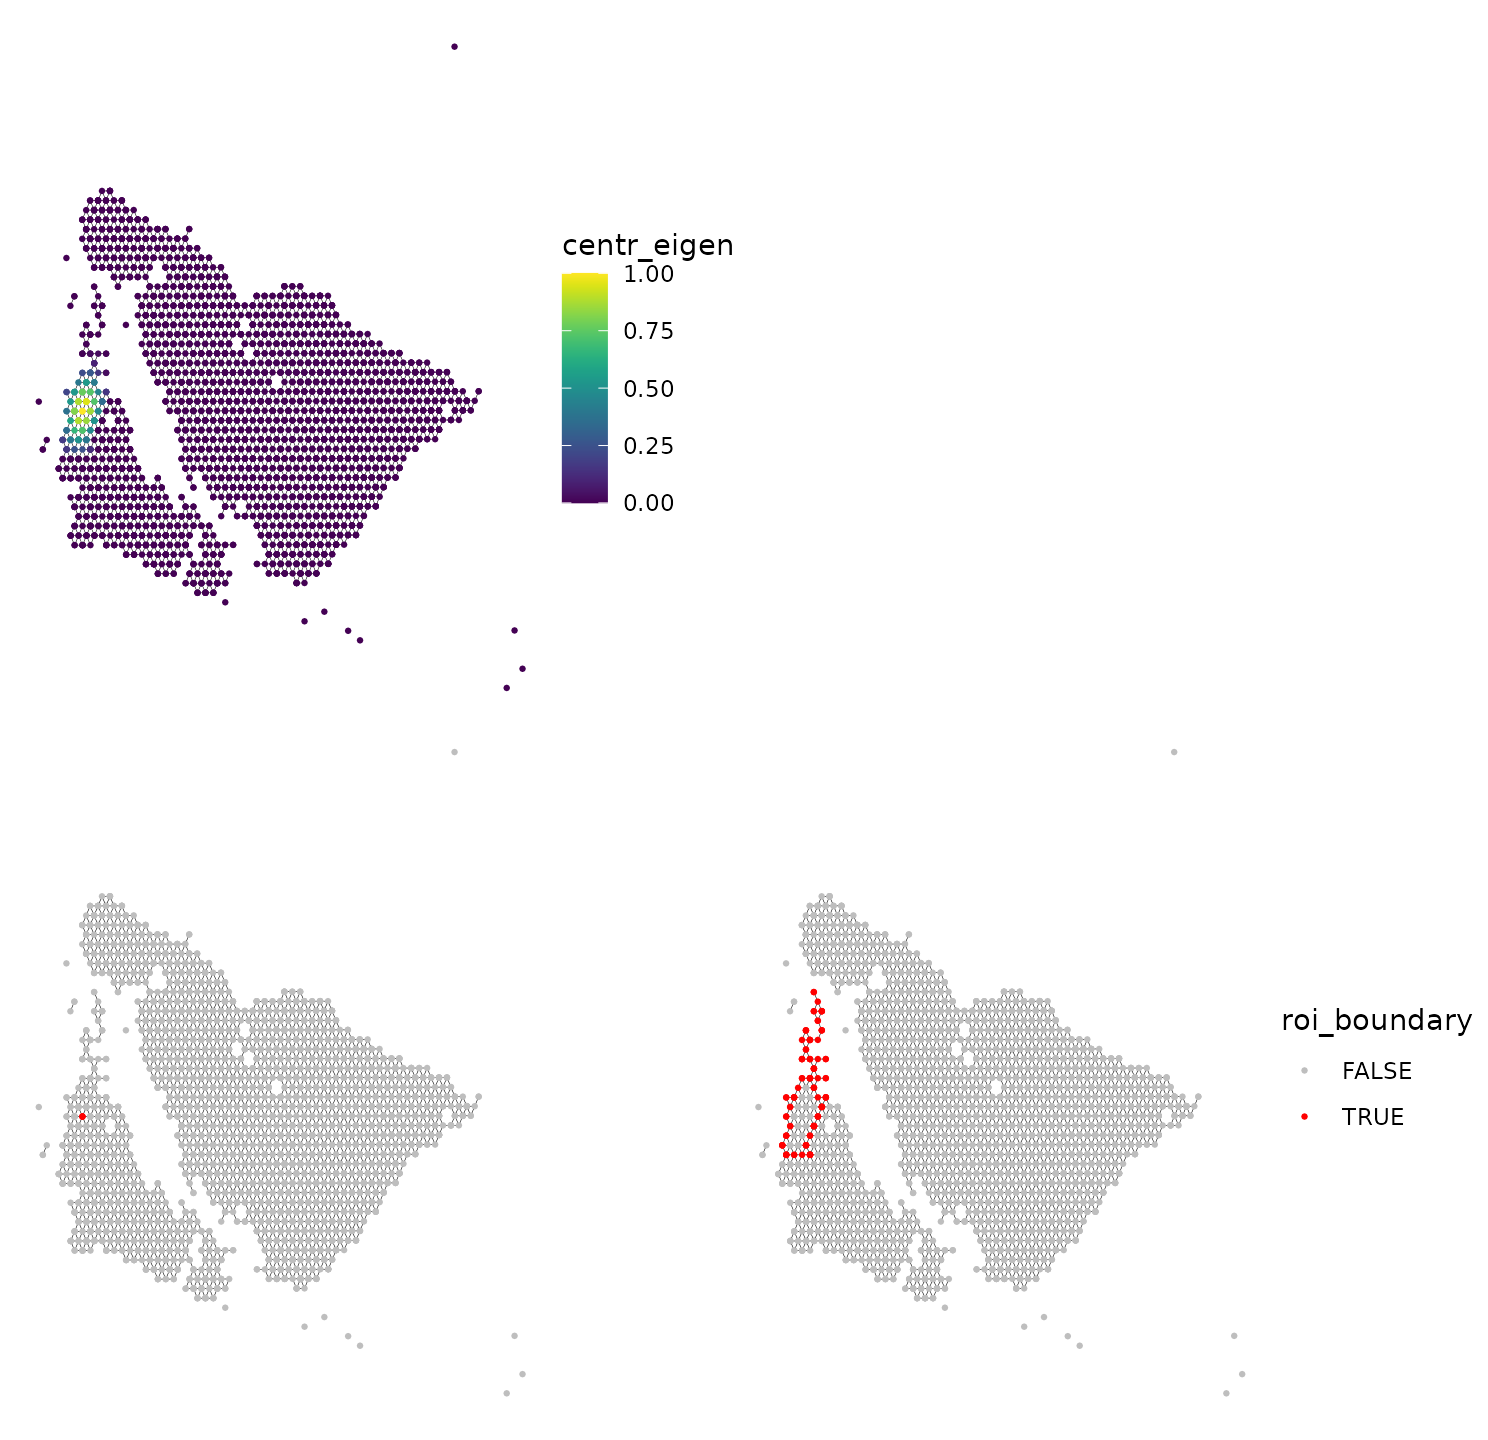
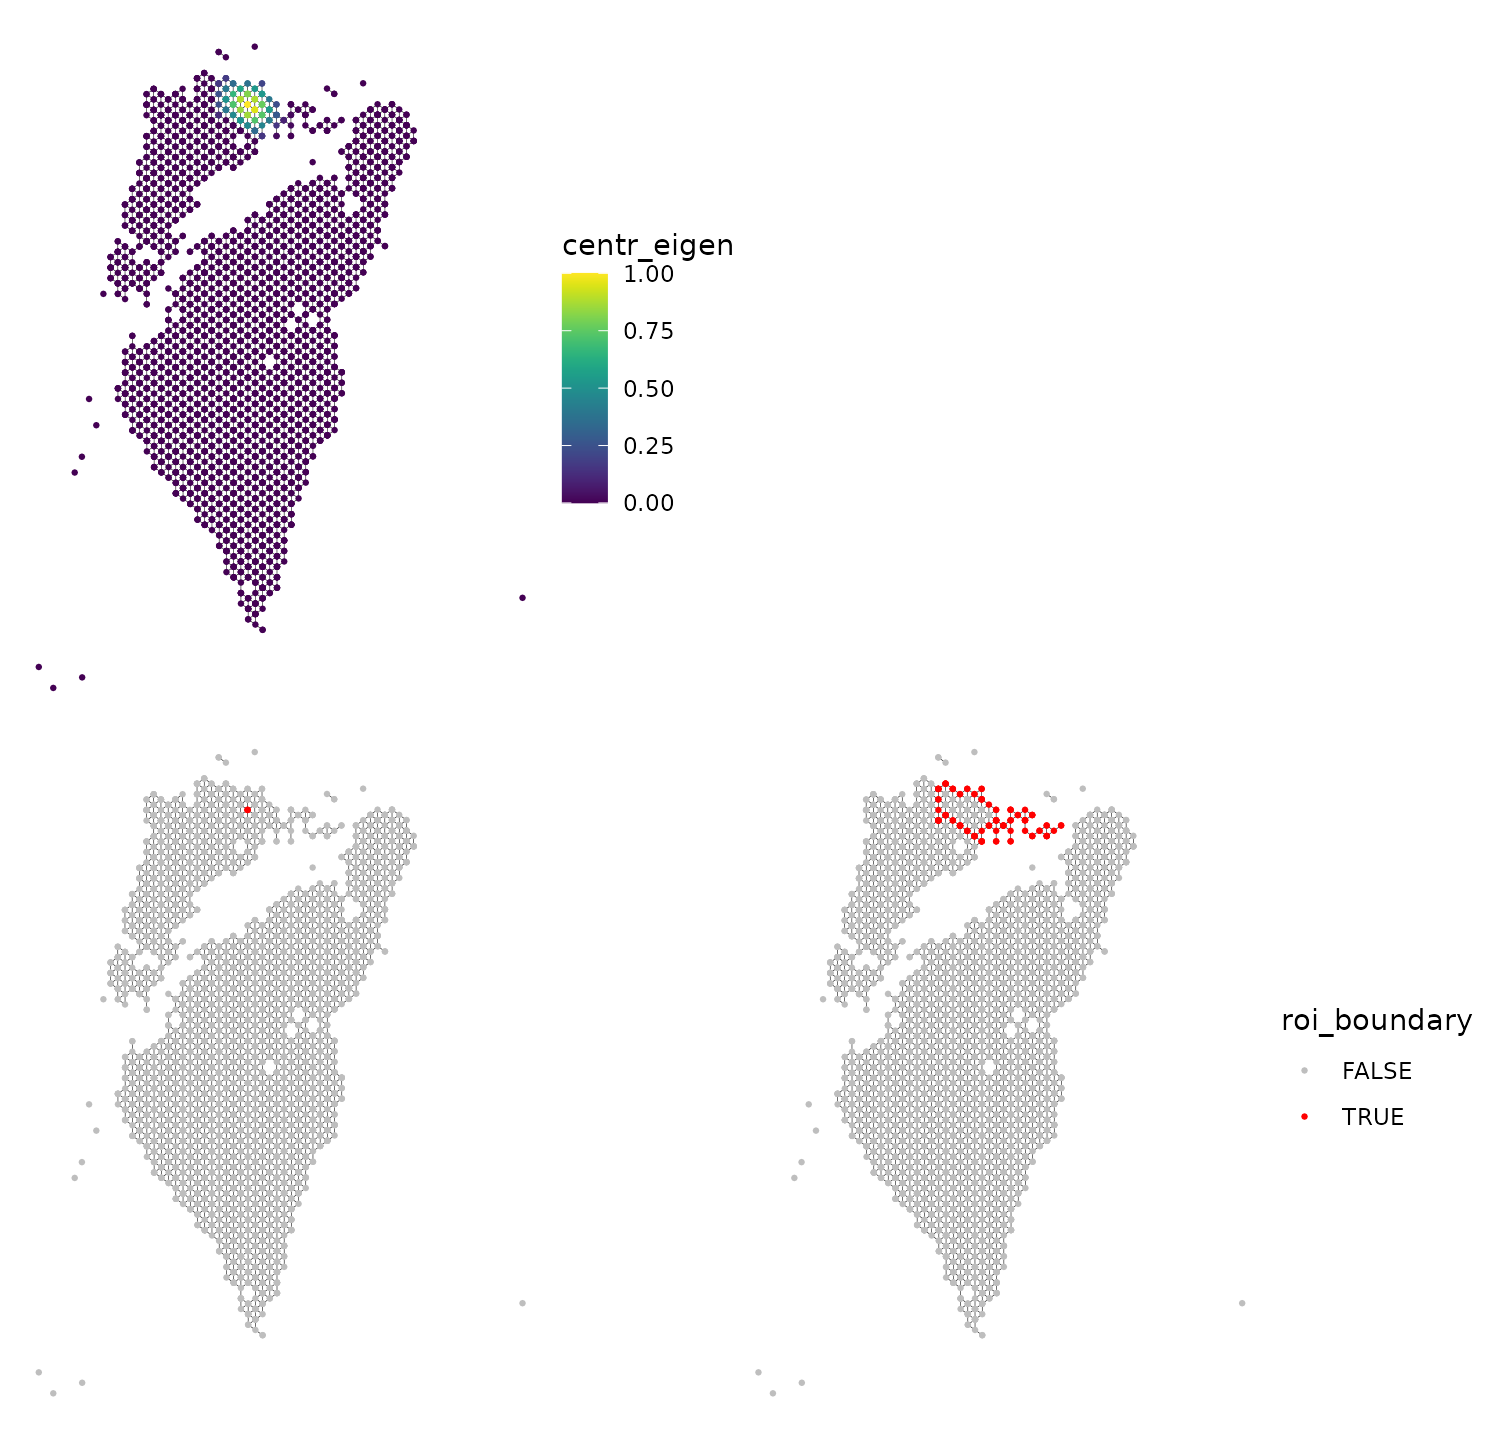
Deploying to gh-pages from @ Sanin-Lab/SpotGraphs@1e385902795e18f5e60756b3d0a333897c8155e1 🚀

Changed region(s): [[0.5255, 0.5312, 0.8038, 0.9375], [0.0309, 0.5312, 0.3401, 0.9375], [0.0309, 0.0312, 0.3091, 0.4375]]

diff --git a/articles/SpotGraphs.html b/articles/SpotGraphs.html
@@ -125,29 +125,29 @@ through the network between each spot</li>
 the spots on our slide.</p>
 <div class="sourceCode" id="cb3"><pre class="downlit sourceCode r">
 <code class="sourceCode R"><span><span class="va">coord</span> <span class="op">=</span> <span class="fu"><a href="https://satijalab.github.io/seurat-object/reference/GetTissueCoordinates.html" class="external-link">GetTissueCoordinates</a></span><span class="op">(</span><span class="va">scc_s1</span><span class="op">)</span></span>
-<span><span class="va">coord</span> <span class="op">=</span> <span class="va">coord</span><span class="op">[</span>,<span class="fu"><a href="https://rdrr.io/r/base/c.html" class="external-link">c</a></span><span class="op">(</span><span class="st">'x'</span>, <span class="st">'y'</span><span class="op">)</span><span class="op">]</span></span>
+<span><span class="va">coord</span> <span class="op">=</span> <span class="fu"><a href="https://rdrr.io/r/base/data.frame.html" class="external-link">data.frame</a></span><span class="op">(</span>x <span class="op">=</span> <span class="va">coord</span><span class="op">$</span><span class="va">y</span>, y <span class="op">=</span> <span class="op">-</span><span class="va">coord</span><span class="op">$</span><span class="va">x</span><span class="op">)</span></span>
 <span><span class="fu"><a href="https://rdrr.io/r/utils/head.html" class="external-link">head</a></span><span class="op">(</span><span class="va">coord</span><span class="op">)</span></span>
-<span><span class="co">#&gt;                        x     y</span></span>
-<span><span class="co">#&gt; AAACACCAATAACTGC-1  4809 16571</span></span>
-<span><span class="co">#&gt; AAACAGGGTCTATATT-1  3944 13546</span></span>
-<span><span class="co">#&gt; AAACCGTTCGTCCAGG-1  8142 14812</span></span>
-<span><span class="co">#&gt; AAACGAGACGGTTGAT-1 13505 10536</span></span>
-<span><span class="co">#&gt; AAACTGCTGGCTCCAA-1 11764 13053</span></span>
-<span><span class="co">#&gt; AAAGACTGGGCGCTTT-1  4240  9011</span></span>
+<span><span class="co">#&gt;       x      y</span></span>
+<span><span class="co">#&gt; 1 16571  -4809</span></span>
+<span><span class="co">#&gt; 2 13546  -3944</span></span>
+<span><span class="co">#&gt; 3 14812  -8142</span></span>
+<span><span class="co">#&gt; 4 10536 -13505</span></span>
+<span><span class="co">#&gt; 5 13053 -11764</span></span>
+<span><span class="co">#&gt; 6  9011  -4240</span></span>
 <span></span>
 <span><span class="va">ig</span> <span class="op">=</span> <span class="fu"><a href="../reference/SpotGraph.html">SpotGraph</a></span><span class="op">(</span>coord <span class="op">=</span> <span class="va">coord</span><span class="op">)</span></span>
 <span><span class="va">ig</span></span>
-<span><span class="co">#&gt; IGRAPH eedd453 UN-- 1185 3189 -- </span></span>
+<span><span class="co">#&gt; IGRAPH a5075b2 UN-- 1185 3189 -- </span></span>
 <span><span class="co">#&gt; + attr: name (v/c), coord_x (v/n), coord_y (v/n), is_boundary (v/l)</span></span>
-<span><span class="co">#&gt; + edges from eedd453 (vertex names):</span></span>
-<span><span class="co">#&gt;  [1] AAACACCAATAACTGC-1--AGGCGGTTTGTCCCGC-1</span></span>
-<span><span class="co">#&gt;  [2] AAACACCAATAACTGC-1--CTCGTCGAGGGCTCAT-1</span></span>
-<span><span class="co">#&gt;  [3] AAACACCAATAACTGC-1--GAAACATAGGAAACAG-1</span></span>
-<span><span class="co">#&gt;  [4] AAACACCAATAACTGC-1--GGAACCTTGACTCTGC-1</span></span>
-<span><span class="co">#&gt;  [5] AAACACCAATAACTGC-1--TCCCTGGCGTATTAAC-1</span></span>
-<span><span class="co">#&gt;  [6] AAACACCAATAACTGC-1--TGGACGCAATCCAGCC-1</span></span>
-<span><span class="co">#&gt;  [7] AAACAGGGTCTATATT-1--ACAGTAATACAACTTG-1</span></span>
-<span><span class="co">#&gt;  [8] AAACAGGGTCTATATT-1--TTCCCGGCGCCAATAG-1</span></span>
+<span><span class="co">#&gt; + edges from a5075b2 (vertex names):</span></span>
+<span><span class="co">#&gt;  [1] 1 --175  1 --522  1 --562  1 --718  1 --983  1 --1073 2 --86   2 --1130</span></span>
+<span><span class="co">#&gt;  [9] 3 --31   3 --326  3 --358  3 --680  3 --696  3 --1168 4 --37   4 --38  </span></span>
+<span><span class="co">#&gt; [17] 4 --128  4 --216  4 --691  4 --1109 5 --473  5 --734  5 --799  5 --807 </span></span>
+<span><span class="co">#&gt; [25] 5 --896  5 --1038 6 --61   6 --366  6 --485  6 --653  6 --815  6 --870 </span></span>
+<span><span class="co">#&gt; [33] 7 --110  7 --251  7 --792  7 --936  7 --950  7 --1183 8 --100  8 --153 </span></span>
+<span><span class="co">#&gt; [41] 8 --296  8 --436  8 --1081 8 --1106 9 --185  9 --651  9 --758  9 --826 </span></span>
+<span><span class="co">#&gt; [49] 9 --902  9 --1085 10--121  10--310  10--430  10--460  10--667  10--727 </span></span>
+<span><span class="co">#&gt; [57] 11--127  11--267  11--523  11--853  11--1038 11--1121 12--343  12--553 </span></span>
 <span><span class="co">#&gt; + ... omitted several edges</span></span></code></pre></div>
 <p>We can plot this igraph object with the ggnetwork package, which
 interfaces directly with ggplot2, or use the SpatialPlotGraph function
@@ -165,14 +165,13 @@ in our plots.</p>
 <span></span>
 <span><span class="va">plt.spg</span> <span class="op">=</span> <span class="fu"><a href="../reference/SpatialPlotGraph.html">SpatialPlotGraph</a></span><span class="op">(</span>igraph_object <span class="op">=</span> <span class="va">ig</span>, </span>
 <span>                           group.by <span class="op">=</span> <span class="st">'is_boundary'</span>, </span>
-<span>                           flip.axes <span class="op">=</span> <span class="cn">T</span>, </span>
 <span>                           pt.size <span class="op">=</span> <span class="fl">0.5</span><span class="op">)</span></span>
 <span></span>
 <span><span class="fu">patchwork</span><span class="fu">::</span><span class="fu"><a href="https://patchwork.data-imaginist.com/reference/wrap_plots.html" class="external-link">wrap_plots</a></span><span class="op">(</span><span class="va">plt.ggnet</span>, <span class="va">plt.spg</span><span class="op">)</span></span></code></pre></div>
 <p><img src="SpotGraphs_files/figure-html/unnamed-chunk-4-1.png" class="r-plt" alt="" width="864"></p>
 </div>
 <div class="section level2">
-<h2 id="spot-filtering">Spot filtering<a class="anchor" aria-label="anchor" href="#spot-filtering"></a>
+<h2 id="spot-filtering-based-on-connectivity">Spot filtering based on connectivity<a class="anchor" aria-label="anchor" href="#spot-filtering-based-on-connectivity"></a>
 </h2>
 <p>One of the main features of the SpotGraph package is to identify
 spots on a slide that lie on top of tissue debris disconnected from the

diff --git a/articles/NeighborhoodCenters.html b/articles/NeighborhoodCenters.html
@@ -113,7 +113,7 @@ to demonstrate <code><a href="../reference/NeighborhoodCenters.html">Neighborhoo
 <span><span class="co">#&gt; [1] 36601  1185</span></span>
 <span></span>
 <span><span class="va">coord</span> <span class="op">=</span> <span class="fu">Seurat</span><span class="fu">::</span><span class="fu"><a href="https://satijalab.github.io/seurat-object/reference/GetTissueCoordinates.html" class="external-link">GetTissueCoordinates</a></span><span class="op">(</span><span class="va">scc_s1</span><span class="op">)</span></span>
-<span><span class="va">coord</span> <span class="op">=</span> <span class="va">coord</span><span class="op">[</span>,<span class="fu"><a href="https://rdrr.io/r/base/c.html" class="external-link">c</a></span><span class="op">(</span><span class="st">'x'</span>, <span class="st">'y'</span><span class="op">)</span><span class="op">]</span></span></code></pre></div>
+<span><span class="va">coord</span> <span class="op">=</span> <span class="fu"><a href="https://rdrr.io/r/base/data.frame.html" class="external-link">data.frame</a></span><span class="op">(</span>x <span class="op">=</span> <span class="va">coord</span><span class="op">$</span><span class="va">y</span>, y <span class="op">=</span> <span class="op">-</span><span class="va">coord</span><span class="op">$</span><span class="va">x</span><span class="op">)</span></span></code></pre></div>
 </div>
 <div class="section level2">
 <h2 id="select-a-region-of-interest">2. Select a region of interest<a class="anchor" aria-label="anchor" href="#select-a-region-of-interest"></a>
@@ -145,13 +145,13 @@ where <code>is_neighborhood == T</code>, and 0 where
 <code>is_neighborhood == F</code>.</p>
 <div class="sourceCode" id="cb5"><pre class="downlit sourceCode r">
 <code class="sourceCode R"><span><span class="fu"><a href="https://rdrr.io/r/base/print.html" class="external-link">print</a></span><span class="op">(</span><span class="fu"><a href="https://rdrr.io/r/utils/head.html" class="external-link">head</a></span><span class="op">(</span><span class="va">res</span><span class="op">$</span><span class="va">eigen.scores</span><span class="op">)</span><span class="op">)</span></span>
-<span><span class="co">#&gt;              barcode center_eigen</span></span>
-<span><span class="co">#&gt; 1 AAACACCAATAACTGC-1 0.0000000000</span></span>
-<span><span class="co">#&gt; 2 AAACAGGGTCTATATT-1 0.0006409795</span></span>
-<span><span class="co">#&gt; 3 AAACCGTTCGTCCAGG-1 0.0000000000</span></span>
-<span><span class="co">#&gt; 4 AAACGAGACGGTTGAT-1 0.0000000000</span></span>
-<span><span class="co">#&gt; 5 AAACTGCTGGCTCCAA-1 0.0000000000</span></span>
-<span><span class="co">#&gt; 6 AAAGACTGGGCGCTTT-1 0.0000000000</span></span>
+<span><span class="co">#&gt;   barcode center_eigen</span></span>
+<span><span class="co">#&gt; 1       1 0.0000000000</span></span>
+<span><span class="co">#&gt; 2       2 0.0006409795</span></span>
+<span><span class="co">#&gt; 3       3 0.0000000000</span></span>
+<span><span class="co">#&gt; 4       4 0.0000000000</span></span>
+<span><span class="co">#&gt; 5       5 0.0000000000</span></span>
+<span><span class="co">#&gt; 6       6 0.0000000000</span></span>
 <span></span>
 <span><span class="co"># Set centrality scores as a vertex attribute in our igraph object</span></span>
 <span><span class="fu">igraph</span><span class="fu">::</span><span class="fu"><a href="https://r.igraph.org/reference/V.html" class="external-link">V</a></span><span class="op">(</span><span class="va">ig</span><span class="op">)</span><span class="op">$</span><span class="va">centr_eigen</span> <span class="op">=</span> <span class="va">res</span><span class="op">$</span><span class="va">eigen.scores</span><span class="op">$</span><span class="va">center_eigen</span></span>

diff --git a/reference/SpatialPlotGraph.html b/reference/SpatialPlotGraph.html
@@ -47,7 +47,6 @@
 <span>  coord <span class="op">=</span> <span class="cn">NULL</span>,</span>
 <span>  group.by <span class="op">=</span> <span class="cn">NULL</span>,</span>
 <span>  label <span class="op">=</span> <span class="cn">FALSE</span>,</span>
-<span>  flip.axes <span class="op">=</span> <span class="cn">TRUE</span>,</span>
 <span>  linewidth <span class="op">=</span> <span class="fl">0.5</span>,</span>
 <span>  pt.size <span class="op">=</span> <span class="fl">1.6</span></span>
 <span><span class="op">)</span></span></code></pre></div>
@@ -73,10 +72,6 @@ present in <code>vertex_attr(ig)</code>.</p></dd>
 
 <dt id="arg-label">label<a class="anchor" aria-label="anchor" href="#arg-label"></a></dt>
 <dd><p>Logical, whether to label groups on the plot based on <code>group.by</code>.</p></dd>
-
-
-<dt id="arg-flip-axes">flip.axes<a class="anchor" aria-label="anchor" href="#arg-flip-axes"></a></dt>
-<dd><p>Default is TRUE. Invert the x and y axes, typically needed with coordinates from Visium Seurat objects to align the spots with the tissue image.</p></dd>
 
 
 <dt id="arg-linewidth">linewidth<a class="anchor" aria-label="anchor" href="#arg-linewidth"></a></dt>

diff --git a/articles/SpotGraphs.md b/articles/SpotGraphs.md
@@ -58,29 +58,29 @@ the spots on our slide.
 
 ``` r
 coord = GetTissueCoordinates(scc_s1)
-coord = coord[,c('x', 'y')]
+coord = data.frame(x = coord$y, y = -coord$x)
 head(coord)
-#>                        x     y
-#> AAACACCAATAACTGC-1  4809 16571
-#> AAACAGGGTCTATATT-1  3944 13546
-#> AAACCGTTCGTCCAGG-1  8142 14812
-#> AAACGAGACGGTTGAT-1 13505 10536
-#> AAACTGCTGGCTCCAA-1 11764 13053
-#> AAAGACTGGGCGCTTT-1  4240  9011
+#>       x      y
+#> 1 16571  -4809
+#> 2 13546  -3944
+#> 3 14812  -8142
+#> 4 10536 -13505
+#> 5 13053 -11764
+#> 6  9011  -4240
 
 ig = SpotGraph(coord = coord)
 ig
-#> IGRAPH eedd453 UN-- 1185 3189 -- 
+#> IGRAPH a5075b2 UN-- 1185 3189 -- 
 #> + attr: name (v/c), coord_x (v/n), coord_y (v/n), is_boundary (v/l)
-#> + edges from eedd453 (vertex names):
-#>  [1] AAACACCAATAACTGC-1--AGGCGGTTTGTCCCGC-1
-#>  [2] AAACACCAATAACTGC-1--CTCGTCGAGGGCTCAT-1
-#>  [3] AAACACCAATAACTGC-1--GAAACATAGGAAACAG-1
-#>  [4] AAACACCAATAACTGC-1--GGAACCTTGACTCTGC-1
-#>  [5] AAACACCAATAACTGC-1--TCCCTGGCGTATTAAC-1
-#>  [6] AAACACCAATAACTGC-1--TGGACGCAATCCAGCC-1
-#>  [7] AAACAGGGTCTATATT-1--ACAGTAATACAACTTG-1
-#>  [8] AAACAGGGTCTATATT-1--TTCCCGGCGCCAATAG-1
+#> + edges from a5075b2 (vertex names):
+#>  [1] 1 --175  1 --522  1 --562  1 --718  1 --983  1 --1073 2 --86   2 --1130
+#>  [9] 3 --31   3 --326  3 --358  3 --680  3 --696  3 --1168 4 --37   4 --38  
+#> [17] 4 --128  4 --216  4 --691  4 --1109 5 --473  5 --734  5 --799  5 --807 
+#> [25] 5 --896  5 --1038 6 --61   6 --366  6 --485  6 --653  6 --815  6 --870 
+#> [33] 7 --110  7 --251  7 --792  7 --936  7 --950  7 --1183 8 --100  8 --153 
+#> [41] 8 --296  8 --436  8 --1081 8 --1106 9 --185  9 --651  9 --758  9 --826 
+#> [49] 9 --902  9 --1085 10--121  10--310  10--430  10--460  10--667  10--727 
+#> [57] 11--127  11--267  11--523  11--853  11--1038 11--1121 12--343  12--553 
 #> + ... omitted several edges
 ```
 
@@ -101,7 +101,6 @@ plt.ggnet = ggplot(ig, aes(x=x, y=y, xend=xend, yend=yend)) +
 
 plt.spg = SpatialPlotGraph(igraph_object = ig, 
                            group.by = 'is_boundary', 
-                           flip.axes = T, 
                            pt.size = 0.5)
 
 patchwork::wrap_plots(plt.ggnet, plt.spg)
@@ -109,7 +108,7 @@ patchwork::wrap_plots(plt.ggnet, plt.spg)
 
 ![](SpotGraphs_files/figure-html/unnamed-chunk-4-1.png)
 
-## Spot filtering
+## Spot filtering based on connectivity
 
 One of the main features of the SpotGraph package is to identify spots
 on a slide that lie on top of tissue debris disconnected from the rest

diff --git a/articles/NeighborhoodCenters.md b/articles/NeighborhoodCenters.md
@@ -47,7 +47,7 @@ dim(scc_s1)
 #> [1] 36601  1185
 
 coord = Seurat::GetTissueCoordinates(scc_s1)
-coord = coord[,c('x', 'y')]
+coord = data.frame(x = coord$y, y = -coord$x)
 ```
 
 ## 2. Select a region of interest
@@ -84,13 +84,13 @@ where `is_neighborhood == T`, and 0 where `is_neighborhood == F`.
 
 ``` r
 print(head(res$eigen.scores))
-#>              barcode center_eigen
-#> 1 AAACACCAATAACTGC-1 0.0000000000
-#> 2 AAACAGGGTCTATATT-1 0.0006409795
-#> 3 AAACCGTTCGTCCAGG-1 0.0000000000
-#> 4 AAACGAGACGGTTGAT-1 0.0000000000
-#> 5 AAACTGCTGGCTCCAA-1 0.0000000000
-#> 6 AAAGACTGGGCGCTTT-1 0.0000000000
+#>   barcode center_eigen
+#> 1       1 0.0000000000
+#> 2       2 0.0006409795
+#> 3       3 0.0000000000
+#> 4       4 0.0000000000
+#> 5       5 0.0000000000
+#> 6       6 0.0000000000
 
 # Set centrality scores as a vertex attribute in our igraph object
 igraph::V(ig)$centr_eigen = res$eigen.scores$center_eigen

diff --git a/reference/SpatialPlotGraph.md b/reference/SpatialPlotGraph.md
@@ -10,7 +10,6 @@ SpatialPlotGraph(
   coord = NULL,
   group.by = NULL,
   label = FALSE,
-  flip.axes = TRUE,
   linewidth = 0.5,
   pt.size = 1.6
 )
@@ -36,12 +35,6 @@ SpatialPlotGraph(
 - label:
 
   Logical, whether to label groups on the plot based on `group.by`.
-
-- flip.axes:
-
-  Default is TRUE. Invert the x and y axes, typically needed with
-  coordinates from Visium Seurat objects to align the spots with the
-  tissue image.
 
 - linewidth:
 
